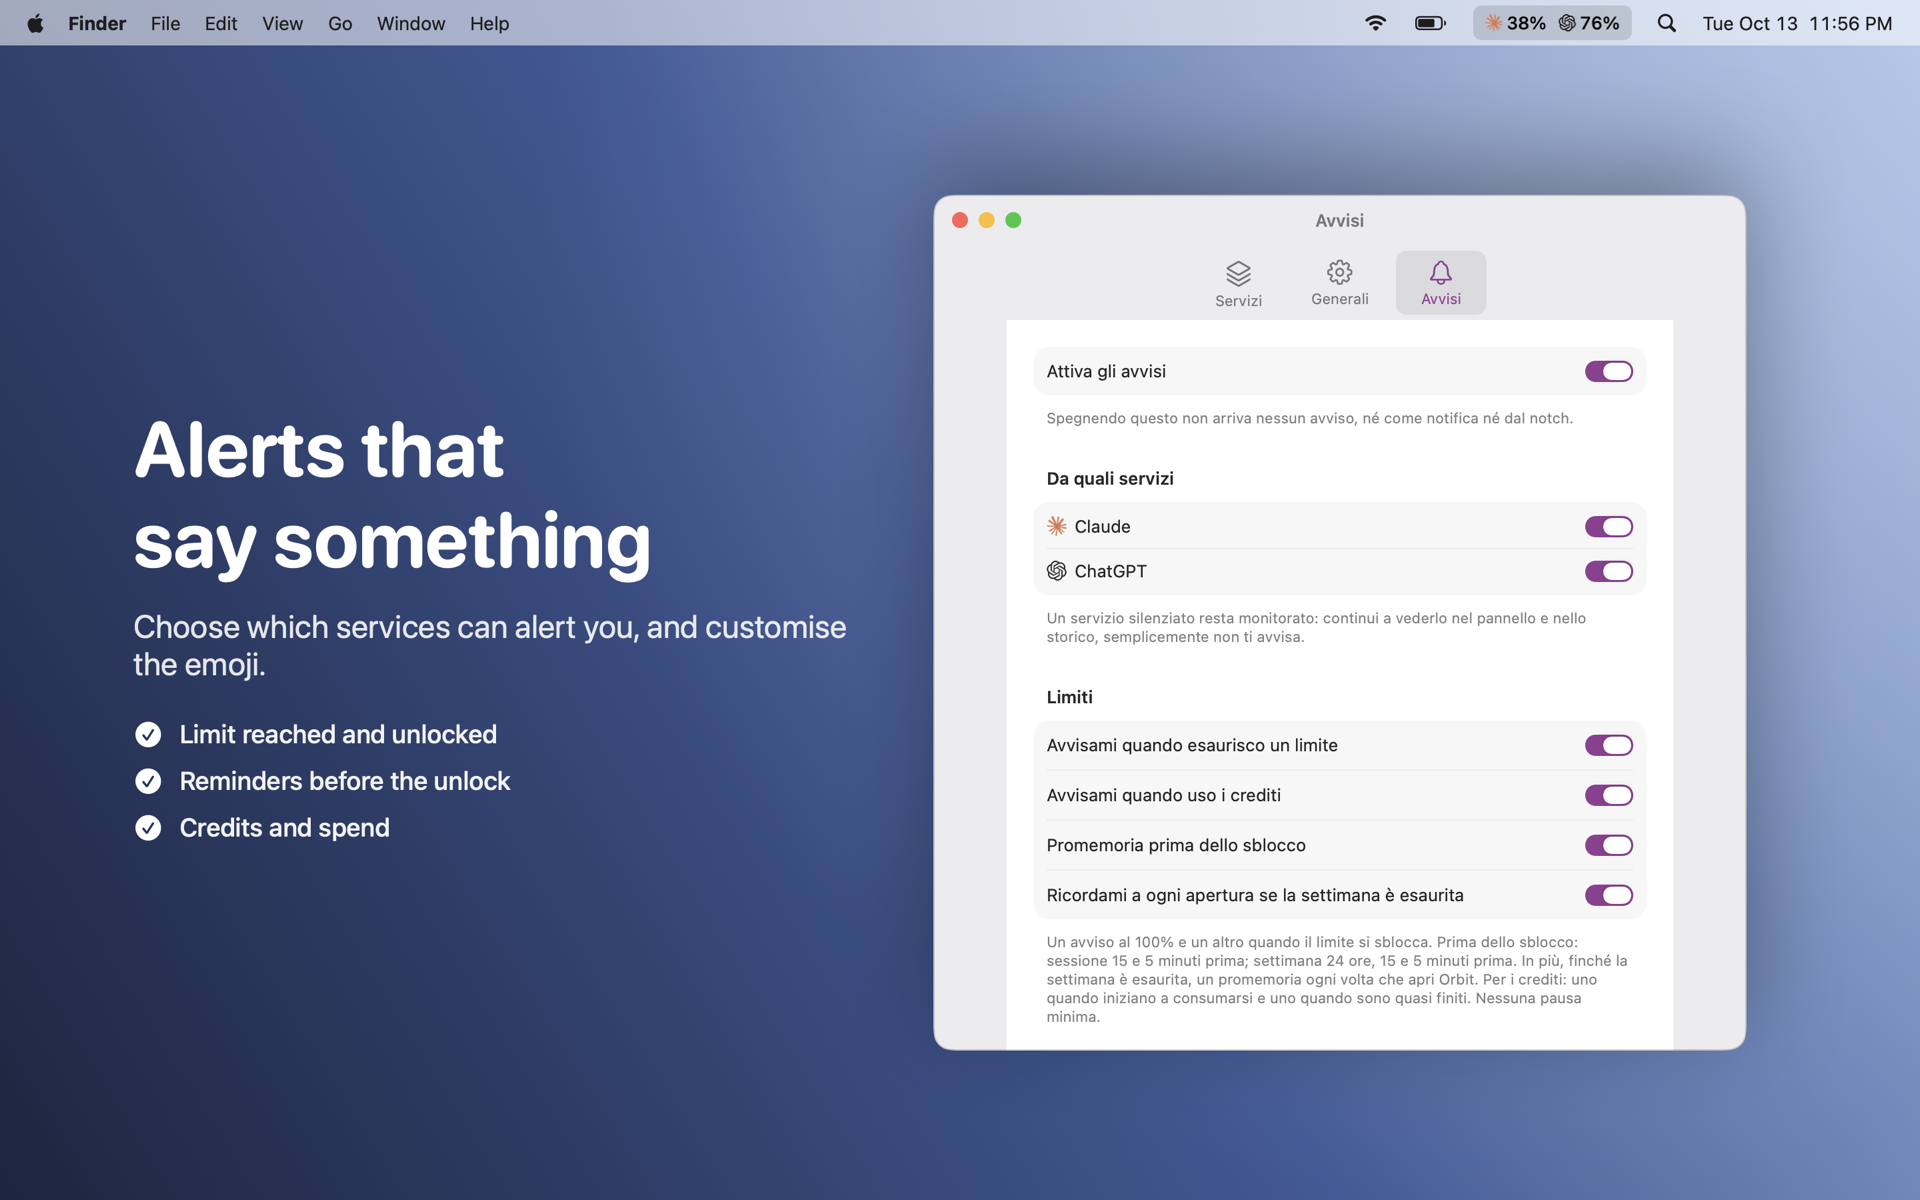
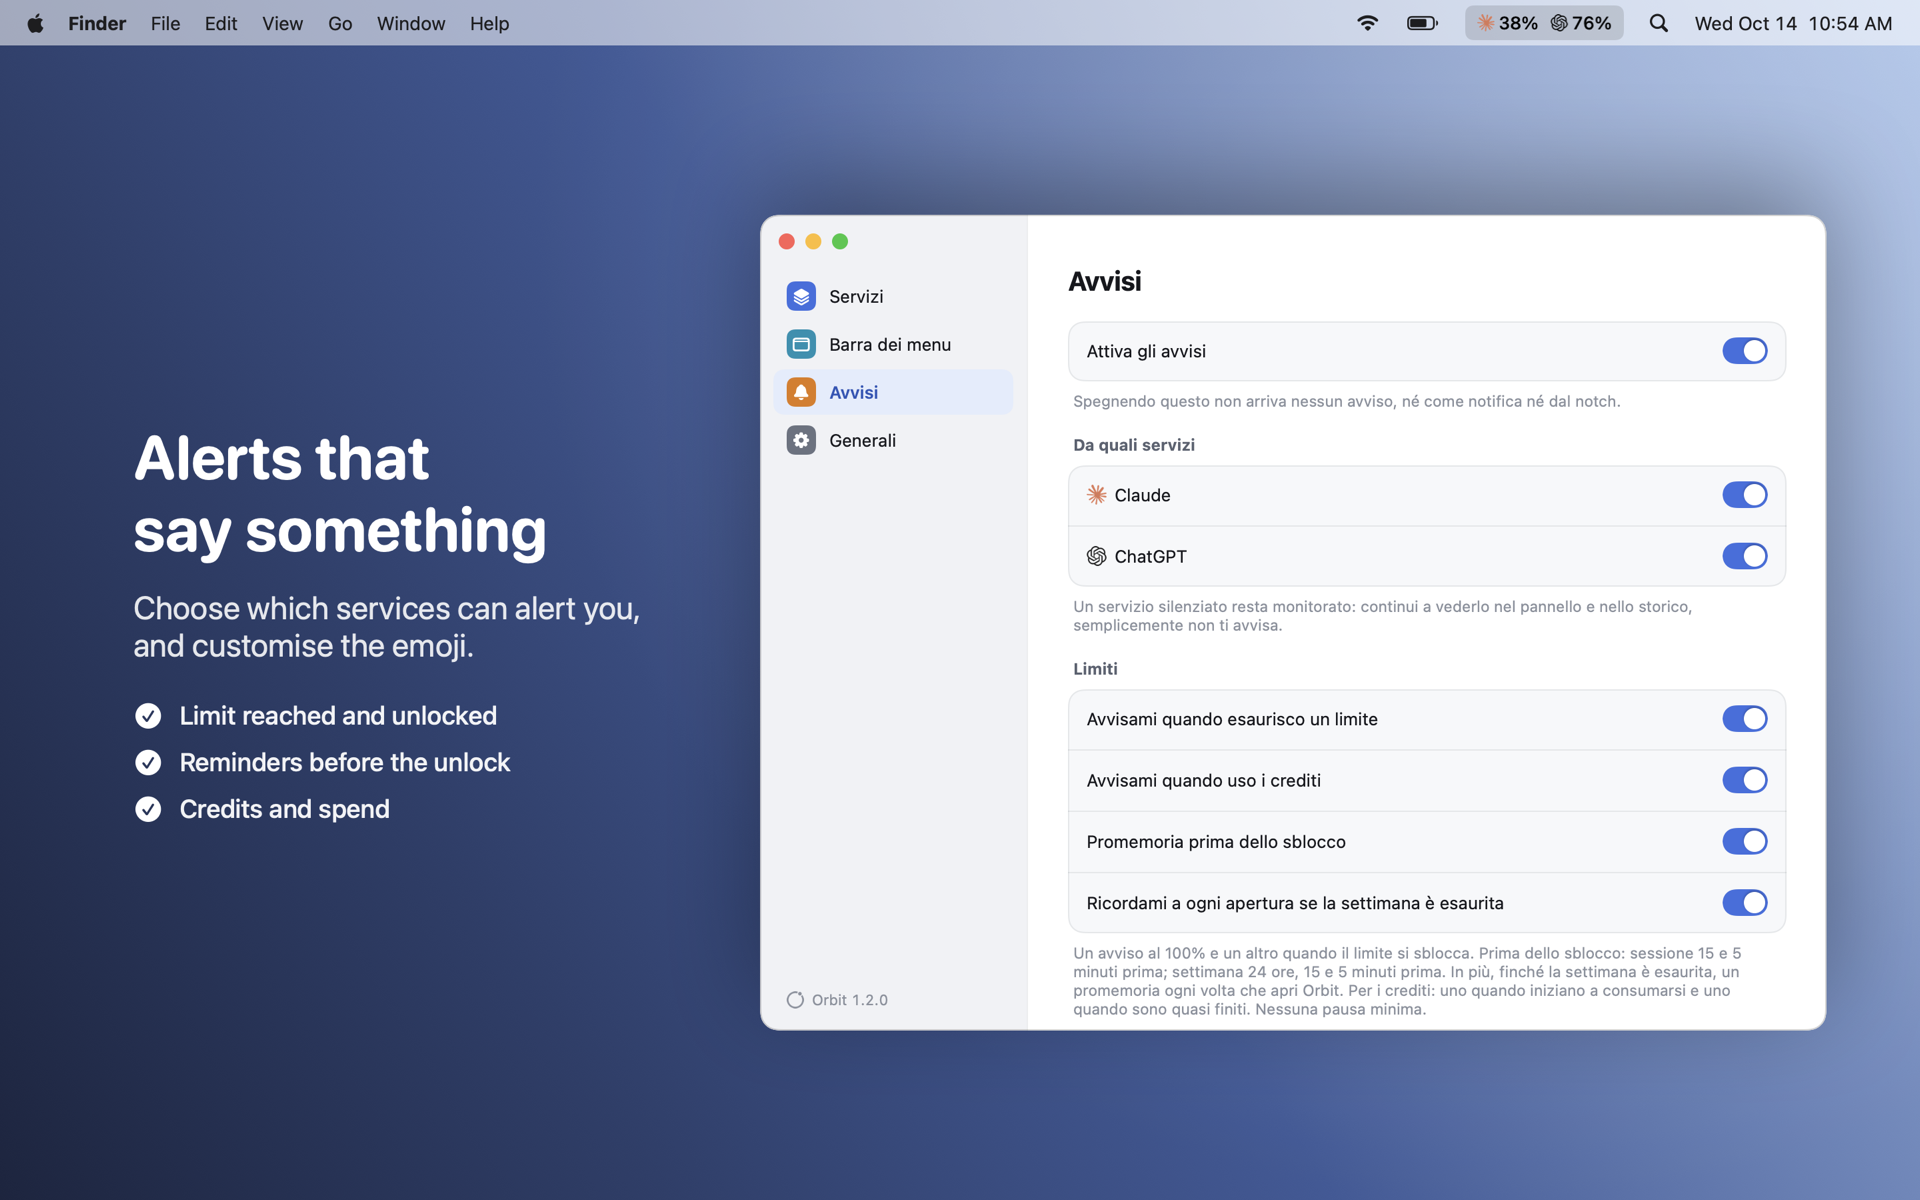
Add 1.3.0: new Settings screenshots, quick menu and What's new

diff --git a/README.md b/README.md
@@ -31,8 +31,12 @@
     <td><img src="assets/screenshots/5-history.png" alt="Usage history"></td>
   </tr>
   <tr>
-    <td><img src="assets/screenshots/6-alerts.png" alt="Alert settings"></td>
-    <td><img src="assets/screenshots/7-services.png" alt="Services and menu bar settings"></td>
+    <td><img src="assets/screenshots/7-services.png" alt="Settings: services"></td>
+    <td><img src="assets/screenshots/8-menubar.png" alt="Settings: menu bar and notch"></td>
+  </tr>
+  <tr>
+    <td><img src="assets/screenshots/6-alerts.png" alt="Settings: alerts"></td>
+    <td></td>
   </tr>
 </table>
 
@@ -42,11 +46,11 @@
 
 1. Download the `.dmg` from the [latest release](https://github.com/DevDreamer99/Orbit-Releases/releases/latest).
 2. Open it and drag **Orbit** into **Applications**.
-3. Open Orbit: it lives in the menu bar. Open **Settings → Services** (in Italian: **Impostazioni → Servizi**), choose **Add service…** (**Aggiungi servizio…**) and sign in to Claude and/or ChatGPT with your own account.
+3. Open Orbit: it lives in the menu bar. Open **Settings → Services** (in Italian: **Impostazioni → Servizi**; right-click the icon for a quick menu), choose **Add…** next to **Add a service** (**Aggiungi un servizio**) and sign in to Claude and/or ChatGPT with your own account.
 
 Once a day Orbit asks GitHub whether a newer version exists and tells you if so. To update, press **Update** (**Aggiorna**) in the banner: Orbit downloads the new version, checks that it is signed by the developer, and opens it so you can drag Orbit into **Applications**. Nothing is downloaded until you press the button, and Orbit never installs anything by itself. You can turn the check off in **Settings → General** (**Impostazioni → Generali**).
 
-If you have 1.1.0, install 1.2.0 by hand once from the [latest release](https://github.com/DevDreamer99/Orbit-Releases/releases/latest): from 1.2.0 on, updates are one click.
+If you have 1.1.0, install the latest version by hand once from the [latest release](https://github.com/DevDreamer99/Orbit-Releases/releases/latest): from 1.2.0 on, updates are one click.
 
 ## Features
 
@@ -57,6 +61,7 @@ If you have 1.1.0, install 1.2.0 by hand once from the [latest release](https://
 - **History**: charts for 24 hours, 7 days and 30 days, with peaks. Orbit keeps a year of history on your Mac and can export it.
 - **Menu bar your way**: services with percentages, or just the logo. Up to two services at a time.
 - **Notch drawer** *(optional, MacBooks with a notch)*: hover over the notch, or drag it down, to open a drawer with all your services. Alerts drop from there too.
+- **Quick menu.** Right-click (or Control-click) the icon in the menu bar for the usage of each service, Refresh now, history, Settings, Check for updates and Quit. A normal click opens the panel.
 - **Light and dark mode.** The interface is in Italian; English, Français, Deutsch and Español are partly translated.
 
 ## Safe by design
@@ -81,6 +86,10 @@ Orbit is not affiliated with, endorsed by or sponsored by Anthropic or OpenAI. "
 | 1.1.0 and later | 14 Sonoma or later | Apple silicon and Intel |
 
 ## What's new
+
+**1.3.0**
+- **New Settings.** A sidebar with Services, Menu bar, Alerts and General, grouped rows, light and dark mode. The window always opens in the middle of the screen.
+- **Quick menu** with a right-click on the menu bar icon.
 
 **1.2.0**
 - **Update inside the app.** Press **Update** in the banner: Orbit downloads the new version, checks its signature and opens it, ready to drag into Applications.
